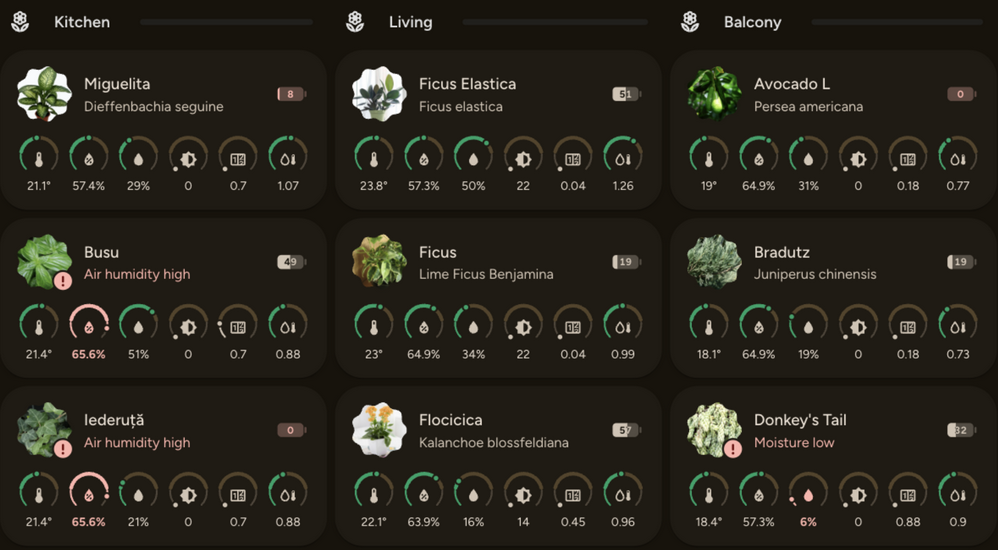
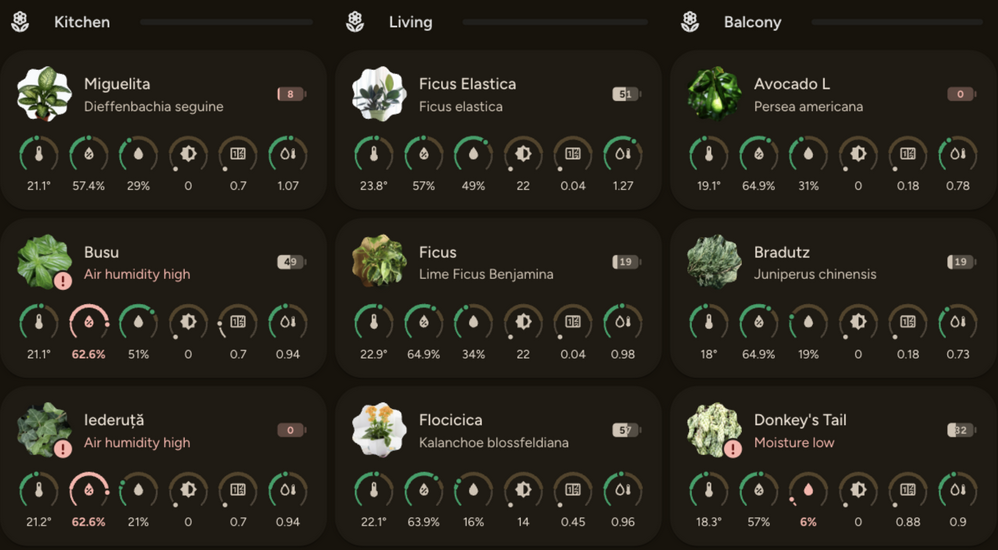
docs: full and compact modes, hide_history, refreshed screenshots

diff --git a/README.md b/README.md
@@ -1,6 +1,6 @@
 # Material Plant Card
 
-A [Home Assistant](https://www.home-assistant.io/) Lovelace plant card built for **Material 3 Expressive**, with circular range gauges, plant problem summaries and a battery indicator. Requires [Olen's plant monitor integration](https://github.com/Olen/homeassistant-plant).
+A [Home Assistant](https://www.home-assistant.io/) Lovelace plant card built for **Material 3 Expressive**, with full-mode metric tiles and 24-hour ranges or compact circular gauges, plant problem summaries and a battery indicator. Requires [Olen's plant monitor integration](https://github.com/Olen/homeassistant-plant).
 
 Designed to pair with [Material Thermostat Card](https://github.com/lageorgem/ha-material-thermostat-card), [Material Purifier Card](https://github.com/lageorgem/ha-material-purifier-card) and [Nerwyn's Material You theme](https://github.com/Nerwyn/material-you-theme), with Home Assistant theme fallbacks.
 
@@ -13,7 +13,7 @@ Designed to pair with [Material Thermostat Card](https://github.com/lageorgem/ha
 
 [![Open your Home Assistant instance and open this repository inside the Home Assistant Community Store.](https://my.home-assistant.io/badges/hacs_repository.svg)](https://my.home-assistant.io/redirect/hacs_repository/?owner=lageorgem&repository=ha-material-plant-card&category=plugin)
 
-<img src="https://raw.githubusercontent.com/lageorgem/ha-material-plant-card/master/assets/hero-dark.png" alt="Eleven plants on a dark dashboard using Material Plant Card" width="900">
+<img src="https://raw.githubusercontent.com/lageorgem/ha-material-plant-card/master/assets/hero-dark.png" alt="Eleven plants on a dark dashboard using Material Plant Card in compact mode" width="900">
 
 ## Table of contents
 
@@ -22,7 +22,9 @@ Designed to pair with [Material Thermostat Card](https://github.com/lageorgem/ha
 - [Installation](#installation)
 - [Quick start](#quick-start)
 - [Card options](#card-options)
-- [Reading the gauges](#reading-the-gauges)
+- [Choosing a display mode](#choosing-a-display-mode)
+- [Reading full-mode tiles](#reading-full-mode-tiles)
+- [Reading compact-mode gauges](#reading-compact-mode-gauges)
 - [Choosing problem behaviour](#choosing-problem-behaviour)
 - [Battery indicator](#battery-indicator)
 - [Flower-card compatibility](#flower-card-compatibility)
@@ -35,24 +37,29 @@ Designed to pair with [Material Thermostat Card](https://github.com/lageorgem/ha
 
 ## Highlights
 
-- Circular gauges with three zones: **too low / just right / too high**, a thick in-range band, thin outer zones, an active arc and a position dot.
+- Full mode (default, as in flower-card): a header and grouped Material 3 Expressive metric tiles with tonal icons, labels, large values with units and range bars with 24-hour history.
+- Compact mode: circular gauges with three zones: **too low / just right / too high**, a thick in-range band, thin outer zones, an active arc and a position dot.
 - Success colour for in-range readings, neutral for out-of-range advice, error colour for problems with bold, error-coloured value text.
 - Plant photo in an M3 Expressive cookie shape, with a placeholder for missing or broken images and a red error circle with a centred **!** when problems exist.
 - Name and species, or a problem summary such as **Moisture low · DLI low**.
 - Optional iOS-style battery glyph with the level number inside; red below 10% by default, otherwise neutral.
 - Width-aware, balanced gauge rows and two-line Material plain tooltips on long-press, hover or keyboard focus.
-- Full and compact displays; visual editor with **Gauges**, **Problems** and **Appearance** sections.
+- Shared photo and species header in both modes; visual editor with **Gauges**, **Problems** and **Appearance** sections.
 - Config-compatible with flower-card; migrate by changing the card type.
 
 ## Gallery
 
-The dashboard above shows eleven plants. This single-card view shows a plant needing attention:
+Full mode shows metric tiles and 24-hour ranges:
 
-<img src="https://raw.githubusercontent.com/lageorgem/ha-material-plant-card/master/assets/card-problem-dark.png" alt="Plant card with a problem summary and alert badge on the photo" width="327">
+<img src="https://raw.githubusercontent.com/lageorgem/ha-material-plant-card/master/assets/full-dark.png" alt="Full mode with metric tiles and 24-hour ranges" width="327">
 
-Long-press (or hover) a gauge for its tooltip with the metric, value and ideal range:
+The dashboard above shows eleven plants in compact mode. This compact single-card view shows a plant needing attention:
 
-<img src="https://raw.githubusercontent.com/lageorgem/ha-material-plant-card/master/assets/tooltip-dark.png" alt="Gauge tooltip showing Air humidity too high, 65.6 % with an ideal range of 20–60 %" width="327">
+<img src="https://raw.githubusercontent.com/lageorgem/ha-material-plant-card/master/assets/card-problem-dark.png" alt="Compact plant card with a problem summary and alert badge on the photo" width="327">
+
+In compact mode, long-press (or hover) a gauge for its tooltip with the metric, value and ideal range:
+
+<img src="https://raw.githubusercontent.com/lageorgem/ha-material-plant-card/master/assets/tooltip-dark.png" alt="Compact gauge tooltip showing Air humidity too high, 65.6 % with an ideal range of 20–60 %" width="327">
 
 Copy the [full-options example](examples/card.yaml) or [migration example](examples/migrate-from-flower-card.yaml). Release history: [CHANGELOG.md](CHANGELOG.md).
 
@@ -107,11 +114,12 @@ Defaults apply when keys are omitted. Only `type` and `entity` are required; eve
 | `type` | string, required | None | Custom card type. | `custom:material-plant-card` |
 | `entity` | string, required | None | Plant monitor entity; must start with `plant.`. | `plant.orhideea` |
 | `name` | string, optional | Plant friendly name, then entity ID | Override the title; an empty string also falls back. | `Orchid` |
-| `display_type` | `full` or `compact`, optional | `full` | Compact uses a smaller photo, hides species and hides gauge value text by default. | `compact` |
-| `show_bars` | string list, optional | `[moisture, conductivity, temperature, illuminance, humidity, dli]` | Gauges to display, in order. Duplicates are removed; `[]` hides all gauges. | `[moisture, temperature, dli]` |
-| `hide_species` | boolean, optional | `false` | Hide species in full display; does not hide problem summaries. Compact always hides species. | `true` |
+| `display_type` | `full` or `compact`, optional | `full` | Full shows grouped metric tiles with range bars and 24-hour history; compact shows circular gauges. Both use the same photo and species header. | `compact` |
+| `show_bars` | string list, optional | `[moisture, conductivity, temperature, illuminance, humidity, dli]` | Measurements to display, in order, as tiles or gauges. Duplicates are removed; `[]` hides all measurements. | `[moisture, temperature, dli]` |
+| `hide_species` | boolean, optional | `false` | Hide species in either mode; does not hide problem summaries. | `true` |
 | `hide_image` | boolean, optional | `false` | Hide the photo/placeholder and its alert badge. | `true` |
-| `hide_units` | boolean, optional | `false` in full; `true` in compact | Despite its compatibility name, hides the **entire value text** below gauges, not just unit suffixes. | `false` |
+| `hide_units` | boolean, optional | `false` in both modes | Full: hides the unit next to each value, keeping the number. Compact: hides the **entire value text** below gauges. | `true` |
+| `hide_history` | boolean, optional | `false` | Full only: disables fetching and displaying 24-hour min–max ranges and averages; keeps current values and ideal ranges. | `true` |
 | `image` | string, optional | Plant `entity_picture` | Picture URL or path override. A missing or broken image displays a placeholder. | `/local/plants/orchid.jpg` |
 | `battery_sensor` | string, optional | Unset; no indicator | Battery percentage sensor. Glyph is shown only if the entity exists. | `sensor.sh_5_battery` |
 | `battery_warn_level` | number, optional | `10` | Battery levels below this threshold use the error colour; otherwise neutral. | `10` |
@@ -126,7 +134,7 @@ Defaults apply when keys are omitted. Only `type` and `entity` are required; eve
 
 `show_bars` and `problem_sensors` use measurement keys, not sensor entity IDs:
 
-| Key | Label | In default gauges |
+| Key | Label | Displayed by default |
 | --- | --- | --- |
 | `moisture` | Moisture | Yes |
 | `conductivity` | Conductivity | Yes |
@@ -141,7 +149,27 @@ Defaults apply when keys are omitted. Only `type` and `entity` are required; eve
 
 Only measurements supplied by the integration are displayed. A measurement is also skipped if its referenced sensor entity is missing.
 
-## Reading the gauges
+## Choosing a display mode
+
+`display_type: full` is the default, as in flower-card. It shows the header followed by a grouped list of metric tiles. Choose compact for a shorter card with circular gauges:
+
+```yaml
+type: custom:material-plant-card
+entity: plant.orhideea
+display_type: compact
+```
+
+Both modes show the same photo size and species line unless `hide_image` or `hide_species` is enabled. Values and units are visible by default in both modes. See [Card options](#card-options) and the [examples](examples/card.yaml) for overrides.
+
+## Reading full-mode tiles
+
+Each tile has a tonal icon, metric label, large current value with its unit, and a horizontal range bar. Thin too-low/too-high zones surround a thick ideal band. A ringed dot marks the current value; a translucent pill spans the last 24 hours' minimum and maximum, and a small triangle marks the 24-hour average. The caption shows the ideal and historical ranges, for example **Ideal 20–60 · 24h 25–48**. The historical range includes the current reading if it extends beyond the recorded range.
+
+History comes from Home Assistant's recorder long-term statistics, using hourly minimum, maximum and mean data for the last 24 hours. Sensors need `state_class: measurement` and recorder statistics enabled; plant monitor measurement sensors provide that state class. DLI is a running total, so it shows no 24-hour min–max or average data. Unavailable statistics omit the history overlay and caption without hiding the current value or ideal range. History refreshes every **10 minutes**; `hide_history: true` disables it.
+
+Tap a tile to open sensor more-info. `hide_units: true` hides only the unit next to the tile's value, not the number. Range position uses the same scaling as [compact gauges](#reading-compact-mode-gauges), including logarithmic lux scaling.
+
+## Reading compact-mode gauges
 
 The thick middle band represents the plant's min/max range, including both boundaries. Thin bands on either side represent low and high readings. The coloured fill follows the track: thin in the too-low/too-high zones, thick in the just-right band, with the same gaps between zones. The active arc and dot show the current position; values beyond the gauge's visual extent are clamped at the ends.
 
@@ -208,15 +236,15 @@ to:
 type: custom:material-plant-card
 ```
 
-Keep the remaining configuration. `battery_ok_level`, `bars_per_row`, `show_care` and `extra_badges` are accepted and ignored: there is no OK battery threshold, no care panels or extra badges, and gauge layout is automatic. You can remove these ignored keys, as shown in the [before/after example](examples/migrate-from-flower-card.yaml). `hide_units` hides the complete value text. An omitted `battery_warn_level` defaults to 10%.
+Keep the remaining configuration. `battery_ok_level`, `bars_per_row`, `show_care` and `extra_badges` are accepted and ignored: there is no OK battery threshold, no care panels or extra badges, and gauge layout is automatic. You can remove these ignored keys, as shown in the [before/after example](examples/migrate-from-flower-card.yaml). Full remains the default display mode; choose `display_type: compact` for circular gauges. `hide_units` hides only units in full mode and complete gauge value text in compact mode. An omitted `battery_warn_level` defaults to 10%.
 
 This is an independent implementation inspired by flower-card; no code is shared.
 
 ## Layout & responsiveness
 
-The full card footprint remains **327 × 160 px** at 327 px width with six gauges, versus flower-card's **327 × 203 px**. This is a measured example, not a fixed height: gauge count, available width and content affect sizing.
+The compact card footprint is approximately **327 × 160 px** at 327 px width with six gauges, versus flower-card's **327 × 203 px**. Full mode is taller: approximately **446 px** with six metric tiles. These are measured examples, not fixed heights: measurement count, available width and content affect sizing.
 
-The card measures its width to decide how many gauges fit a row. If they do not fit one row, it balances them across rows, with the extra gauge on the first row and the last row centred. For two-row layouts: five gauges split **3/2**, six **3/3**, and seven **4/3**. At 327 px width, six gauges still fit one row. `bars_per_row` is ignored. Use `display_type: compact` for a 40 px photo instead of 56 px, no species line and hidden gauge value text by default. Set `hide_units: false` to restore values in compact display.
+In compact mode, the card measures its width to decide how many gauges fit a row. If they do not fit one row, it balances them across rows, with the extra gauge on the first row and the last row centred. For two-row layouts: five gauges split **3/2**, six **3/3**, and seven **4/3**. At 327 px width, six gauges fit one row. Full mode uses one metric tile per row. `bars_per_row` is ignored in both modes.
 
 ## Theming
 
@@ -232,7 +260,8 @@ Use [Nerwyn's Material You theme](https://github.com/Nerwyn/material-you-theme) 
 | No gauges or a missing gauge | The integration has not supplied that measurement, or its sensor entity is absent. Check the plant's sensor setup and `show_bars`. Metadata may be empty while the integration starts. |
 | Gauge has no active indicator | Check that the sensor value and min/max thresholds are numeric and that minimum is below maximum. |
 | Out-of-range gauge is not red | Default problem behaviour follows the integration's triggers. Check those triggers and `problem_sensors`, or use `problem_source: gauges`. |
-| Values disappear in compact display | Set `hide_units: false`; compact hides all value text by default. |
+| Values disappear in compact display | Check for `hide_units: true`; set it to `false` to restore value text (the default in both modes). |
+| Full tiles have no 24-hour range | Set `hide_history: false`, enable recorder statistics for measurement sensors and allow statistics to accumulate. Running-total DLI has no min/max/mean history. Current values still display. |
 | No battery indicator | Set `battery_sensor` and confirm that entity exists. Battery is not auto-detected. |
 | Photo shows a placeholder | Check `image` or the plant's `entity_picture` and whether the browser can load it. |
 

diff --git a/info.md b/info.md
@@ -2,15 +2,16 @@
 
 Material 3 Expressive plant monitoring for Home Assistant, using [Olen's plant monitor integration](https://github.com/Olen/homeassistant-plant). Pairs with [Material Thermostat Card](https://github.com/lageorgem/ha-material-thermostat-card), [Material Purifier Card](https://github.com/lageorgem/ha-material-purifier-card) and [Nerwyn's Material You theme](https://github.com/Nerwyn/material-you-theme).
 
-<img src="https://raw.githubusercontent.com/lageorgem/ha-material-plant-card/master/assets/hero-dark.png" alt="Eleven plants on a dark dashboard using Material Plant Card" width="900">
+<img src="https://raw.githubusercontent.com/lageorgem/ha-material-plant-card/master/assets/hero-dark.png" alt="Eleven plants on a dark dashboard using Material Plant Card in compact mode" width="900">
 
-- Circular gauges with low, just-right and high zones, an active arc and a position dot; coloured fill follows the track's thin outer zones, thick just-right band and gaps. Logarithmic illuminance scaling for positive lux thresholds.
+- Full mode (default, as in flower-card): a header and grouped Material 3 Expressive metric tiles with tonal icons, labels, large values with units and horizontal range bars. Thin low/high zones surround the thick ideal band; a translucent pill marks the last-24h min–max, a small triangle marks the average, and a ringed dot marks the current value. Captions show **Ideal a–b · 24h c–d**.
+- Compact mode: circular gauges with low, just-right and high zones, an active arc and a position dot; coloured fill follows the track's thin outer zones, thick just-right band and gaps. Logarithmic illuminance scaling for positive lux thresholds applies in both modes.
 - Success colour in range (`--md-sys-color-success`, falling back to `--success-color`), neutral on-surface-variant for out-of-range readings without a problem, and error colour for problems with bold, error-coloured value text.
 - Cookie-shaped plant photo, missing-image placeholder, species or problem summary, and a red error circle with a centred **!** when attention is needed.
 - Optional bare iOS-style battery glyph with the level number inside; red below `battery_warn_level` (default **10%**), otherwise neutral. `battery_ok_level` is accepted but ignored for flower-card compatibility and is not in the visual editor.
 - Integration-driven problems by default, or opt-in problems from out-of-range gauges.
-- Full and compact displays, with a visual editor for Gauges, Problems and Appearance.
-- Width-aware balanced gauge rows: when two rows are needed, five split 3/2, six 3/3 and seven 4/3, with the last row centred. The six-gauge footprint remains **327 × 160 px** at 327 px width.
+- Both modes share the photo size and species header, with a visual editor for Gauges, Problems and Appearance.
+- Compact has width-aware balanced gauge rows: when two rows are needed, five split 3/2, six 3/3 and seven 4/3, with the last row centred. Its six-gauge footprint is approximately **327 × 160 px** at 327 px width, versus flower-card's **327 × 203 px**. Full mode is approximately **446 px** tall with six tiles.
 - Flower-card-compatible configuration: change only the card type. `bars_per_row`, `show_care` and `extra_badges` are accepted but ignored.
 
 Requires **Home Assistant 2024.8.0+** and the plant monitor custom integration. Install through HACS or add the JavaScript Module resource manually, then add:
@@ -20,9 +21,11 @@ type: custom:material-plant-card
 entity: plant.orhideea
 ```
 
-Replace the entity ID with your own. Sensor readings and ranges come from the integration. Tap gauges for sensor more-info, or the photo/name for plant more-info. Compact display hides species and gauge value text by default; `hide_units: false` restores values.
+Replace the entity ID with your own. Sensor readings and ranges come from the integration. Tap tiles or gauges for sensor more-info, or the photo/name for plant more-info. Set `display_type: compact` for gauges instead of the default full-mode tiles. `hide_units` defaults to `false` in both modes; `true` hides only the unit next to full-mode values, but hides complete compact gauge value text.
 
-Gauge tooltips use the Material plain style with two lines: `<Metric>[ · too low/high]` and `<value> <unit> · ideal <min>–<max> <unit>`. Show them with a touch long-press (about 0.45 s), mouse hover (0.5 s) or keyboard focus; Escape dismisses. A normal tap still opens sensor more-info; a long-press does not. With the default `problem_source: plant`, low illuminance at night can stay neutral when the integration does not flag a problem.
+Full-mode history uses Home Assistant recorder long-term statistics for sensors with `state_class: measurement` (provided by plant monitor measurement sensors). It refreshes every **10 minutes**; `hide_history: true` disables fetching and displaying it. DLI is a running total and has no 24-hour min–max/average data. Missing statistics leave the current value and ideal range visible.
+
+Compact-mode gauge tooltips use the Material plain style with two lines: `<Metric>[ · too low/high]` and `<value> <unit> · ideal <min>–<max> <unit>`. Show them with a touch long-press (about 0.45 s), mouse hover (0.5 s) or keyboard focus; Escape dismisses. A normal tap still opens sensor more-info; a long-press does not. With the default `problem_source: plant`, low illuminance at night can stay neutral when the integration does not flag a problem.
 
 See the [README](https://github.com/lageorgem/ha-material-plant-card#readme) for installation and all options, the [full-options example](https://github.com/lageorgem/ha-material-plant-card/blob/master/examples/card.yaml), and [CHANGELOG.md](https://github.com/lageorgem/ha-material-plant-card/blob/master/CHANGELOG.md) for release history.
 

diff --git a/CHANGELOG.md b/CHANGELOG.md
@@ -9,15 +9,17 @@ Unreleased — first public release in preparation.
 
 ### Added
 
-- Material 3 Expressive plant card for Olen's plant monitor integration, with circular three-zone range gauges, active arcs and position dots. Coloured fill follows the track's thin low/high zones, thick just-right band and the same gaps.
+- Material 3 Expressive plant card for Olen's plant monitor integration. Full mode is the default, as in flower-card: a header and grouped metric tiles with tonal icons, labels, large values with units and horizontal range bars with thin low/high zones and a thick ideal band.
+- Full-mode last-24h recorder statistics: translucent min–max pill, average triangle, ringed current-value dot and captions such as `Ideal 20–60 · 24h 25–48`. Refreshes every 10 minutes; `hide_history: true` disables it. Requires recorder long-term statistics for `state_class: measurement` sensors; running-total DLI has no 24-hour min/max/mean data.
+- Compact mode with circular three-zone range gauges, active arcs and position dots. Coloured fill follows the track's thin low/high zones, thick just-right band and the same gaps.
 - Success gauge colour in range (`--md-sys-color-success`, falling back to `--success-color`), neutral on-surface-variant out of range without a problem, and error colour for problems with bold, error-coloured value text. Logarithmic illuminance scaling for lux readings with positive minimum thresholds.
 - Support for moisture, conductivity, temperature, illuminance, humidity, DLI, 24-hour DLI, CO₂, soil temperature and VPD measurements supplied by the integration.
 - Cookie-shaped plant photos with configurable image override and a missing/broken-image placeholder; plant name, species or problem summary, and a red error circle with a centred **!** on the photo.
 - Integration-driven problems by default (low illuminance at night can remain neutral), optional out-of-range gauge problems, and measurement filtering through `problem_sensors`.
 - Optional bare iOS-style battery glyph with the level number inside; error colour below `battery_warn_level` (default 10%), otherwise neutral. `battery_ok_level` is accepted but ignored for flower-card compatibility and removed from the visual editor.
 - Two-line Material plain gauge tooltips: `<Metric>[ · too low/high]` and `<value> <unit> · ideal <min>–<max> <unit>`. Touch long-press (about 0.45 s), mouse hover (0.5 s) and keyboard focus show the tooltip; Escape dismisses. Normal taps open sensor more-info; long-presses do not. Photo/name and battery taps open their respective more-info dialogs.
-- Full and compact layouts, configurable gauge order and visibility, and `hide_units` to hide complete gauge value text.
-- Width-measured, balanced gauge rows when gauges do not fit one row, with the extra on the first row and the last row centred (two-row examples: 5 → 3/2, 6 → 3/3, 7 → 4/3). Six-gauge footprint unchanged at 327 × 160 px at 327 px width.
+- Shared photo size and species header in both modes, configurable measurement order and visibility, and `hide_units` defaulting to `false` in both modes. When enabled, it hides only the unit beside full-mode values, but complete compact gauge value text. Tap tiles or gauges for sensor more-info.
+- Compact width-measured, balanced gauge rows when gauges do not fit one row, with the extra on the first row and the last row centred (two-row examples: 5 → 3/2, 6 → 3/3, 7 → 4/3). Compact is approximately 327 × 160 px at 327 px width with six gauges, versus flower-card's 327 × 203 px; full mode is approximately 446 px tall with six tiles.
 - Home Assistant visual configuration form with Gauges, Problems and Appearance sections.
 - Material You theme tokens with Home Assistant theme fallbacks and reduced-motion support.
 - Flower-card-compatible configuration keys, with `bars_per_row`, `show_care` and `extra_badges` accepted and ignored; independent implementation with no shared code.
